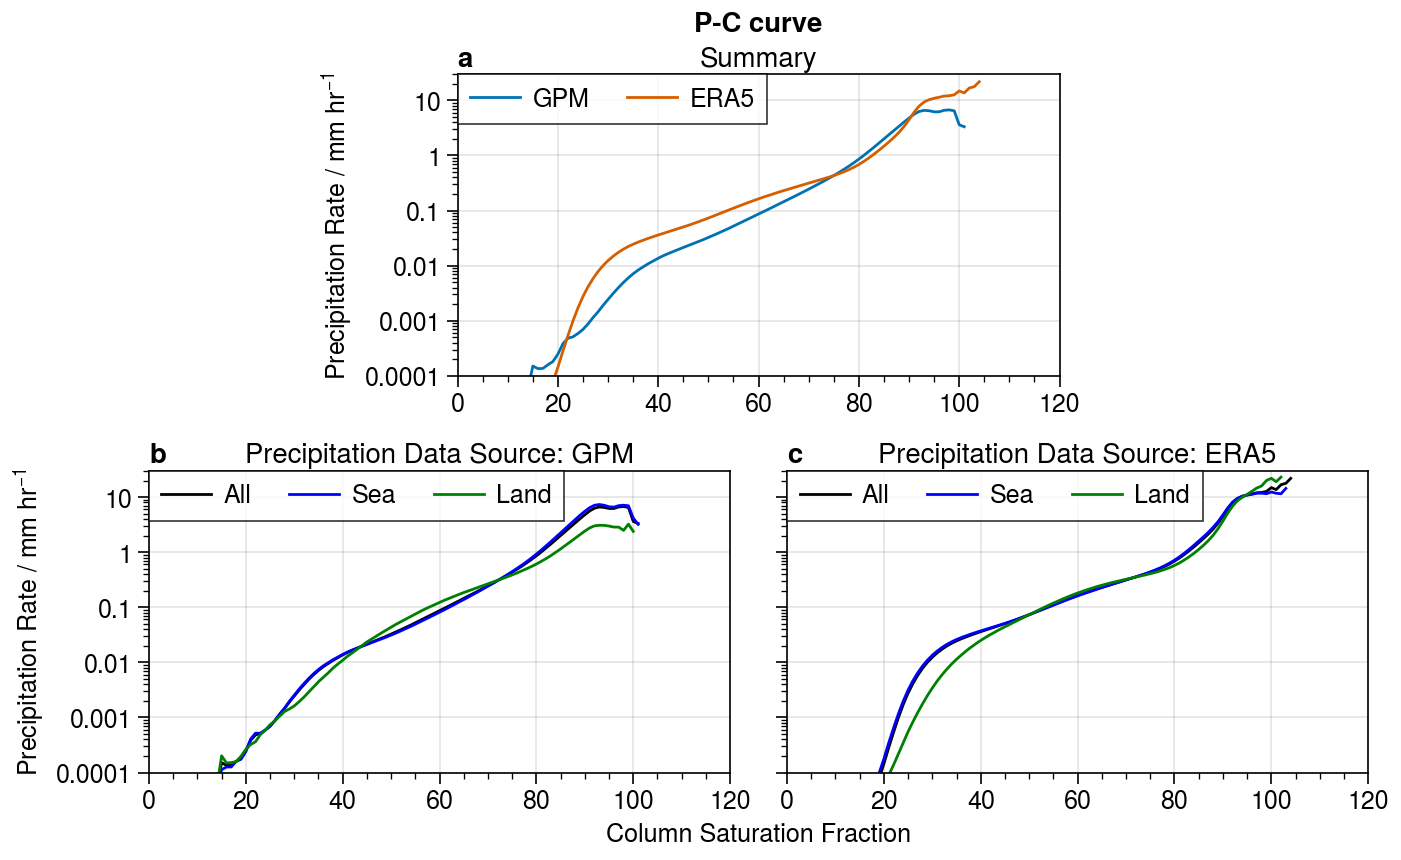
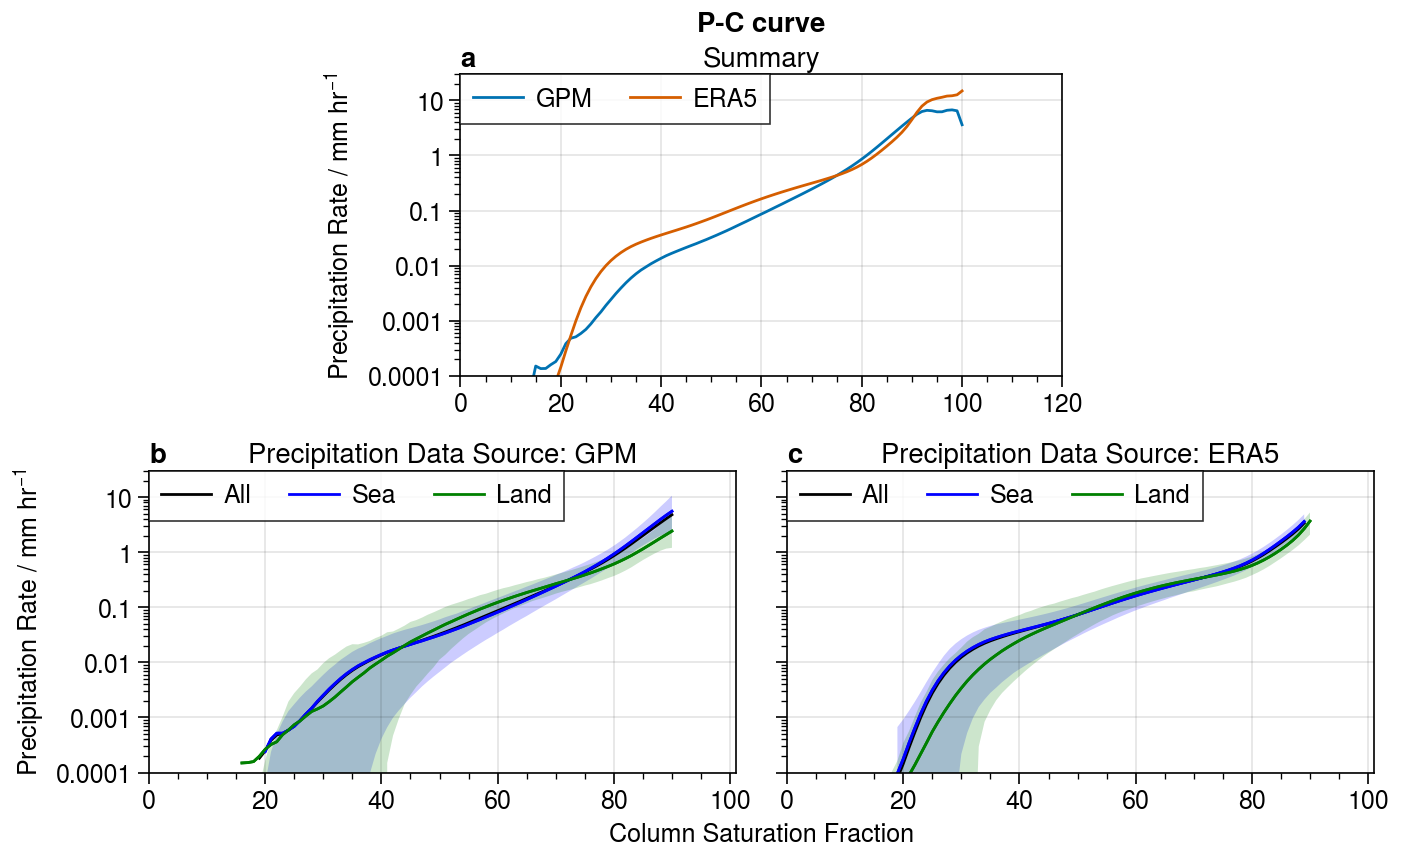
More updates to README

diff --git a/README.md b/README.md
@@ -98,11 +98,23 @@ This is especially notable, because we also wish to differentiate between the re
 
 ### B. Comparison between Rainfall Rates and Column Saturation Fraction
 
-We first investigate the distribution of column saturation fraction in the Maritime Continent over all spatial and temporal points.  We see that despite it being noted above that in terms of absolute precipitable water, land points were drier than the ocean, in terms of column saturation, the atmosphere over land is more saturated than over the ocean.
+We first investigate the distribution of column saturation fraction in the Maritime Continent over all spatial and temporal points.  We see that despite it being noted above that in terms of absolute precipitable water, land points were drier than the ocean, in terms of column saturation, the atmosphere over land is more saturated than over the ocean.  This implies that the temperature of the atmospheric column is on average lower than that over the ocean, and therefore nears saturation despite having lower values of precipitable water.
 
 ![csffreq](figures/csffreq-SEAx0.25.png)
 
+For Column Saturation Fraction (CSF) values which, in the plot above, have a probability density of above 0.05 (i.e. 15-90%), we find the mean, as well as the 25th- and 75th-percentiles, of rainfall rate for Column Saturation Fraction, binned in 1% increments.
 
+![PCcurve](figures/PCcurve.png)
+
+*(Note: Solid lines represent mean, shaded parts represent 5th and 95th percentiles.)*
+
+We see that there is a noticeable difference in the relationship between precipitation rate and column-saturation fraction over land and sea.  This difference is seen when GPM IMERG precipitation is used, but is much less noticeable (except at lower CSF) in ERA5.  From GPM-IMERG, it can be seen that the relationship between CSF and rainfall rate is weaker on land compared to over the ocean, such that at high CSF, the rainfall rate is lower.  For mid-saturation levels of CSF (50-60%), we see that rainfall is slightly higher over land than on ocean.
+
+We also investigate the spatial distribution of average rainfall rate for four different values of CSF: 25%, 50%, 75% and 90%, as a ratio of the domain-averaged rainfall over all ocean grid-points.
+
+![CSFspatial](figures/csfspatial-ratio.png)
+
+It is immediately apparent that at 50-60% CSF, rainfall over the islands of the Maritime Continent is noticeably enhanced compared to the surrounding ocean.  However, at a CSF of 90%, rainfall over the islands is noticeable lower than the surrounding seas.  Lastly, we also see that rainfall over the ocean near the equator is noticeably lower than rainfall rates as one moves polewards towards the subtropics.  It remains to be seen if this is due to the presence of islands, as opposed to this being a latitude effect.
 
 ## Installation
 
